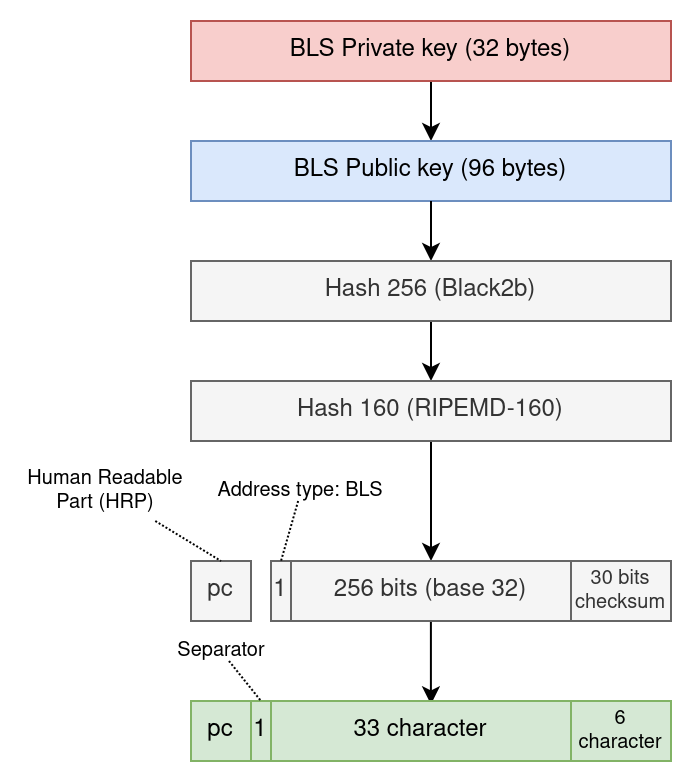
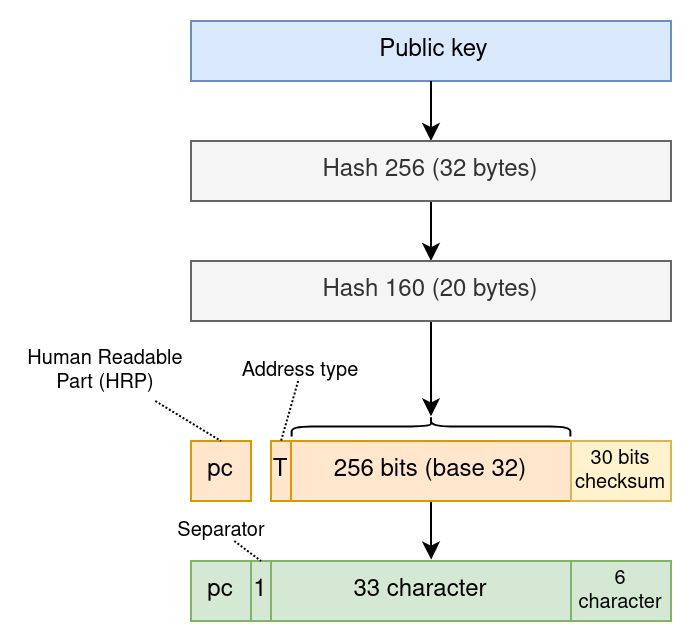
updating documents for new PIPs (#101)
* updating documents for new PIPs

* fixing broken links

* fixing broken links

* ci: ignore github.com check

diff --git a/website/_includes/footer.html b/website/_includes/footer.html
@@ -46,7 +46,7 @@
               </a>
             </li> -->
             <li>
-              <a class="anchor" href="https://www.pacscan.org/" target="_blank" rel="noopener noreferrer">
+              <a class="anchor" href="https://pacscan.org/" target="_blank" rel="noopener noreferrer">
                 {% t dict.block_explorer %}
               </a>
             </li>

diff --git a/website/learn/transaction/format/index.md b/website/learn/transaction/format/index.md
@@ -11,35 +11,32 @@ Transactions in Pactus consists the following fields:
 | Size     | Field        |
 | -------- | ------------ |
 | 1 byte   | Version      |
-| 4 bytes  | Stamp        |
-| 4 bytes  | Sequence     |
+| 4 bytes  | Lock Time    |
 | 8 bytes  | Fee          |
+| Variant  | Memo         |
 | 1 byte   | Payload type |
 | Variant  | Payload data |
-| Variant  | Memo         |
-| 96 bytes | Public key   |
 | 48 bytes | Signature    |
+| 96 bytes | Public key   |
 
 - **Version** is the version of the transaction format. Different versions may have different fields or
   a different layout, and the current transaction version is set to 1.
-- **Sequence** is a sequence number that increments for each transaction created by the sender.
-  The purpose of this field is to prevent replay attacks, where a previously valid transaction
-  is sent again to the network to cause unintended consequences.
+- **Lock Time** specifies the block number at which the transaction can be unlocked.
 - **Fee** contains the fee paid by the sender to the network for processing the transaction.
   The fee is calculated based on the [percentage fee]({{ site.baseurl }}/learn/transaction/fee/) model.
-- **Payload type** specifies the type of the transaction payload.
-  Depending on the payload type, the payload data field is decoded differently.
-- **Payload data** contains the actual data payload of the transaction.
-  The payload data varies depending on the payload type.
 - **Memo** is an optional message that can be included in the transaction.
   The message can be used to provide additional information about the transaction or to communicate with the recipient.
   The maximum size of the memo is 64 characters that is defined in the
   [consensus parameters]({{ site.baseurl }}/learn/consensus/parameters/)
+- **Payload type** specifies the type of the transaction payload.
+  Depending on the payload type, the payload data field is decoded differently.
+- **Payload data** contains the actual data payload of the transaction.
+  The payload data varies depending on the payload type.
+- **Signature** contains a cryptographic signature created by the sender using their private key.
+  The signature is used to ensure that the transaction has not been tampered with and that it was indeed created by the sender.
 - **Public key** contains the public key of the sender.
   The public key is used to verify that the sender has the authority to create the transaction.
   The sender's address should be derived from this public key.
-- **Signature** contains a cryptographic signature created by the sender using their private key.
-  The signature is used to ensure that the transaction has not been tampered with and that it was indeed created by the sender.
 
 ## Payload type
 

diff --git a/website/learn/blockchain/account/index.md b/website/learn/blockchain/account/index.md
@@ -11,18 +11,15 @@ which can send transactions on the blockchain.
 
 ## Account structure
 
-The account structure is 16 bytes long and consists the following fields:
+The account structure is 12 bytes long and consists the following fields:
 
 | Size    | Field    |
 | ------- | -------- |
 | 4 bytes | Number   |
-| 4 bytes | Sequence |
 | 8 bytes | Balance  |
 
 - **Number** is a sequential and unique number assigned to each account when it is created for the first time.
   The account number is used to calculate the [state hash]({{ site.baseurl }}/learn/blockchain/state-hash) of the blockchain.
-- **Sequence** increases every time a transaction is sent from an account.
-  This protects the account against replay attacks, where a previously committed transaction is broadcasted again.
 - **Balance** holds the balance of the account, which is the amount of Pactus coins held by the account.
 
 ## Treasury account
@@ -31,7 +28,6 @@ The Treasury account is a special account that is defined at the genesis time.
 The Treasury account holds the total supply of Pactus coins, which is fixed at 21 million coins,
 and each coin is divided into 1 billion units.
 
-The sequence number of the Treasury account is the same as the number of blocks in the blockchain.
 In each block, one coin from the treasury account is transferred to the proposer account
 as [block reward]({{ site.baseurl }}/learn/blockchain/incentive).
 

diff --git a/website/learn/blockchain/validator/index.md b/website/learn/blockchain/validator/index.md
@@ -13,13 +13,12 @@ The amount of stake held by validators determines their power in the consensus.
 
 ## Validator structure
 
-The Validator structure is 124 bytes long and consists the following fields:
+The Validator structure is 120 bytes long and consists the following fields:
 
 | Size     | Field               |
 | -------- | ------------------- |
 | 96 bytes | Public Key          |
 | 4 bytes  | Number              |
-| 4 bytes  | Sequence            |
 | 8 bytes  | Stake               |
 | 4 bytes  | Last Bonding Height |
 | 4 bytes  | Unbonding Height    |
@@ -28,8 +27,6 @@ The Validator structure is 124 bytes long and consists the following fields:
 - **Public Key** is the Validator's public key.
 - **Number** is a sequential and unique number assigned to each validator when it is created for the first time.
   The validator number is used to calculate the [state hash]({{ site.baseurl }}/learn/blockchain/state-hash) of the blockchain.
-- **Sequence** increases every time a transaction is sent from a validator. This protects the validator against replay attacks,
-  where a previously committed transaction is broadcasted again.
 - **Stake** holds the Validator's stake or the amount of Pactus coins locked or "staked" by the Validator.
 - **Bonding Height** is the last block height that the validator is bonded some stake.
 - **Unbonding Height** is the block height that the validator is unbonded.

diff --git a/website/learn/blockchain/address/index.md b/website/learn/blockchain/address/index.md
@@ -27,11 +27,11 @@ The resulting byte array is then converted into a bech32m[^first] string.
 
 ## Address Type
 
-The Address Type specifies the type of public key used to generate the address.
-This makes it easy to add support for new signature algorithms in the future.
-Currently, the Pactus blockchain only supports
-[BLS signature]({{ site.baseurl }}/learn/blockchain/cryptography/#digital-signature)
-algorithm, with the type set to one.
+The Address Type specifies the type of the address and its defined as below:
+
+- 0: Treasury address
+- 1: Validator address
+- 2: Account Address
 
 ## Treasury address
 

diff --git a/website/_posts/2023-08-01-testnet-1-concluded.md b/website/_posts/2023-08-01-testnet-1-concluded.md
@@ -30,8 +30,7 @@ It shows that users, even in Testnet, tend to stake their coins.
 
 ![Staking chart]({{ site.url }}/blog/images/2023-07-25-testnet-1-concluded/staked_coins.png)
 
-We were able to extract the confirmation time of transactions using transaction
-[stamps]({{ site.baseurl }}/learn/transaction/stamping/).
+We were able to extract the confirmation time of transactions.
 More than 97% of transactions were confirmed in just one block after submission.
 This indicates that the transaction pool and broadcasting models are working fine.
 

diff --git a/website/_posts/2023-10-15-testnet-2-launched.md b/website/_posts/2023-10-15-testnet-2-launched.md
@@ -8,7 +8,7 @@ tags: announcement, testnet
 ## Overview
 
 Exciting news for the Pactus Community: Testnet-2 is has launched!
-The journey through [Testnet-1]({{ site.baseurl }}/2023/08/01/story-of-testnet-1.html)
+The journey through [Testnet-1]({{ site.url }}/2023/08/01/testnet-1-concluded.html)
 brought success and invaluable experiences, with over 500 validators joining the network.
 Despite its noteworthy achievements, it also faced challenges that led to a tough decision: to pause the Testnet and
 thoroughly address these issues.

diff --git a/website/learn/blockchain/block/index.md b/website/learn/blockchain/block/index.md
@@ -48,11 +48,13 @@ The block certificate consists the following fields:
 
 | Size     | Field      |
 | -------- | ---------- |
+| 4 bytes  | Height     |
 | 2 bytes  | Round      |
 | Variant  | Committers |
 | Variant  | Absentees  |
 | 48 bytes | Signature  |
 
+- **Height** is the height of the certified block.
 - **Round** is the consensus round in which this certificate was issued.
   If a proposer fails to propose a block in one round, another validator takes over as the proposer,
   and the round number is increased.

diff --git a/website/_posts/2022-10-30-dev-meeting.md b/website/_posts/2022-10-30-dev-meeting.md
@@ -20,7 +20,7 @@ We in the Pactus family stand in solidarity with courageous people who are fight
 ### Launching Block explorer
 
 The beta version of the block explorer has been launched 🚀 and is now available at
-[https://www.pacscan.org](https://www.pacscan.org).
+[https://pacscan.org](https://pacscan.org).
 
 Nagaraj explained the block explorer and some of the features.
 

diff --git a/website/learn/transaction/unbond/index.md b/website/learn/transaction/unbond/index.md
@@ -18,4 +18,4 @@ The unbond transaction has a payload consists the following field:
 | -------- | ----------------- |
 | 21 bytes | Validator address |
 
-- **Validator address** is the address of [validator]({{ site.baseurl }}/learn/blockchain/validator/) that is unbonded.
+- **Validator address** is the address of validator that is unbonded.
